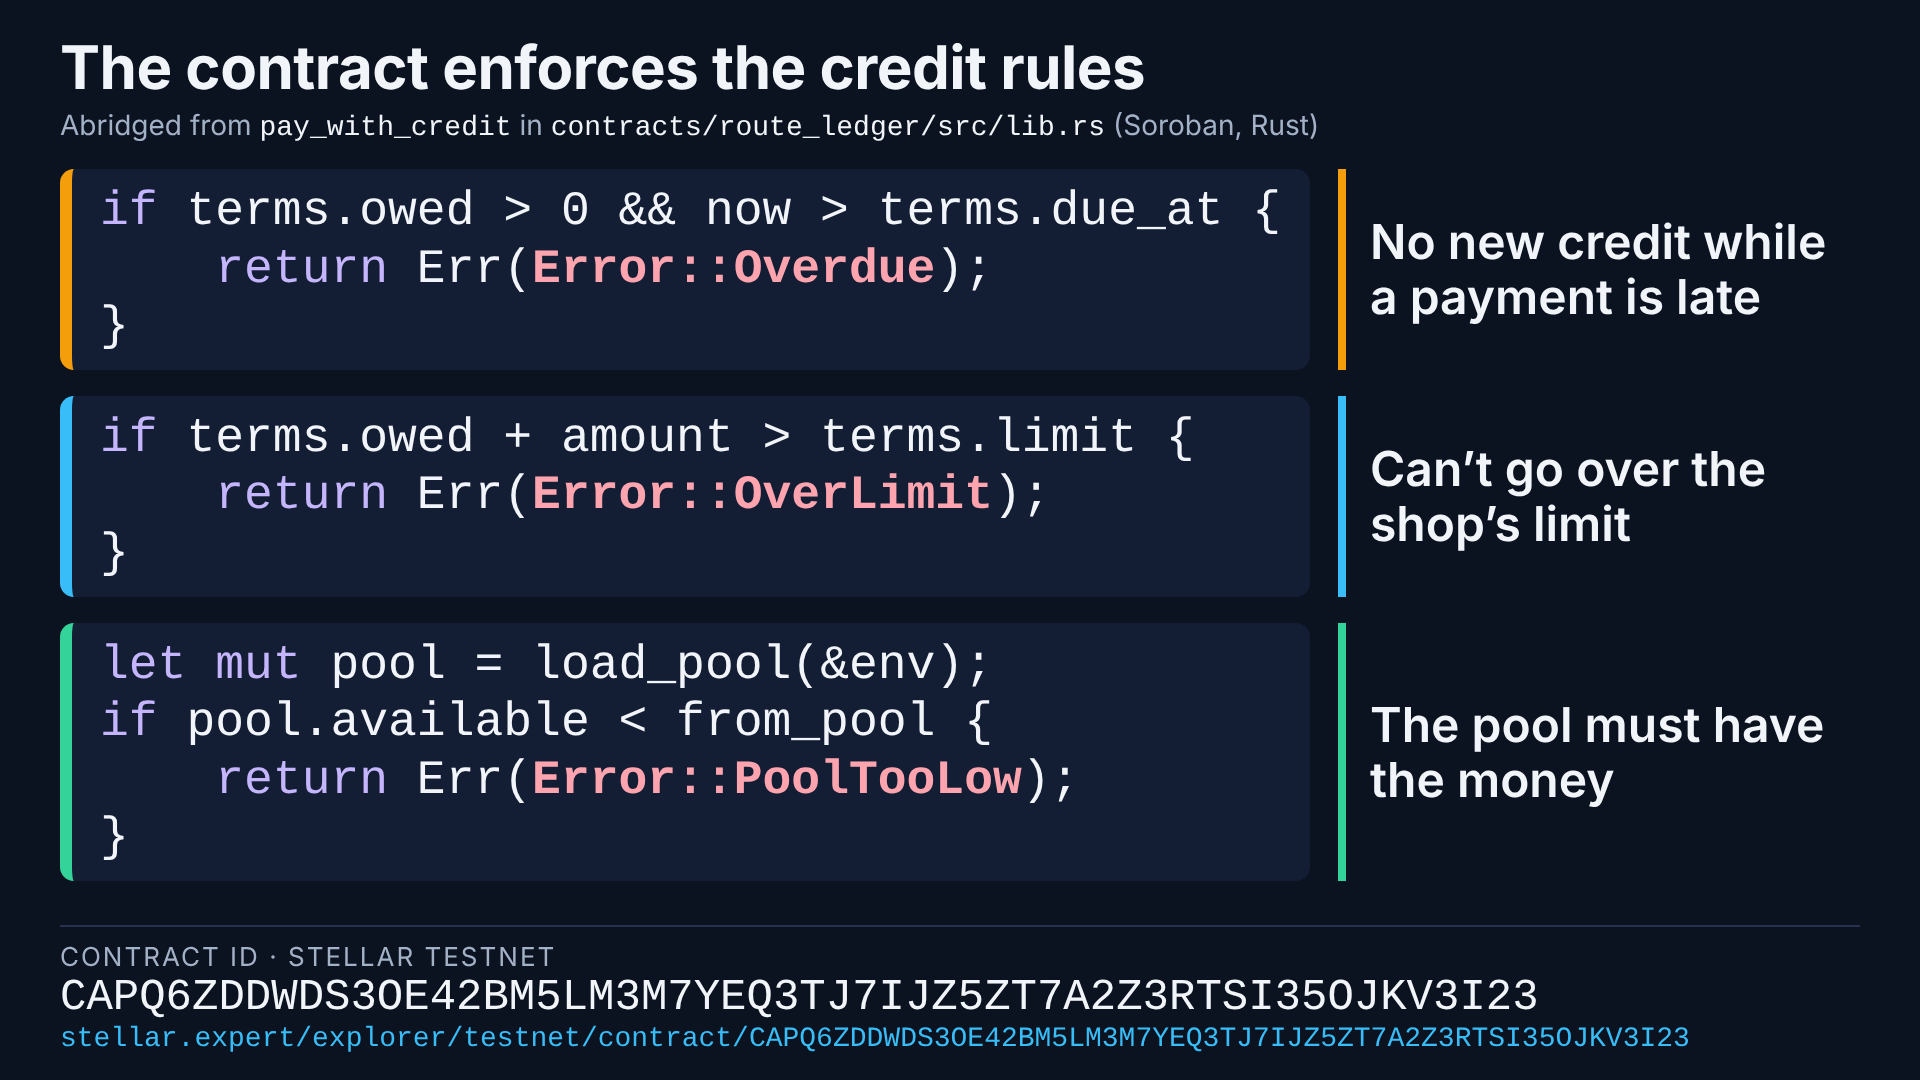
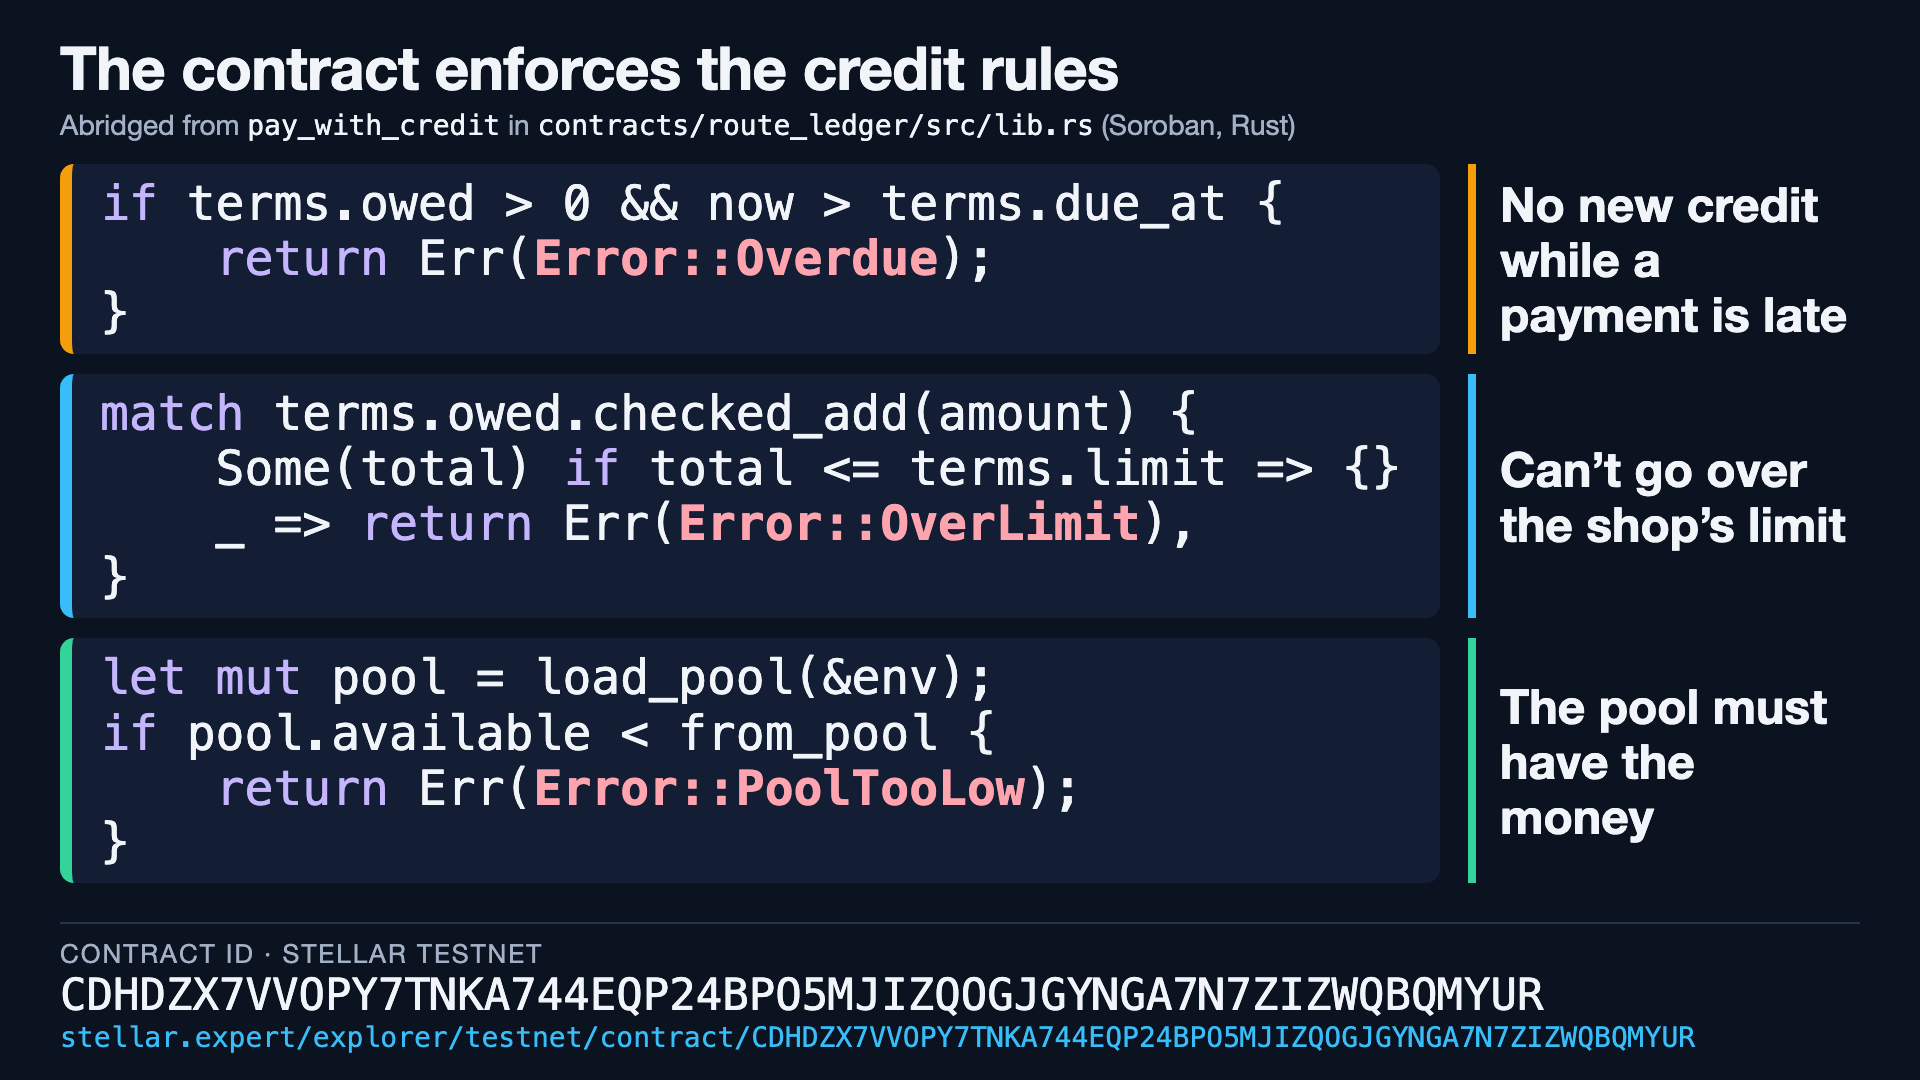
Fix the code slide render after #66 (#82)
* Fix the code slide render: follow pay_with_credit after #66 (#56)

#66 turned the limit check into a checked_add match, so render.mjs
stopped with "line no longer in pay_with_credit" and docs/img/code-slide.png
stayed at the old PENDING render. Point the slide at the new block, give
the code column room for it (still 48 px / 24 pt), and make render.mjs
refuse lines that are too wide or too many instead of drawing overlaps.

The PNG is not part of this commit: it needs the final contract ID from
the redeploy (#52).

* Add a SCALE option to render.mjs for print-size slide images (#56)

SCALE=3 node docs/slides/render.mjs draws both slides at 3x (5760 x 3240)
into code-slide@3x.png and architecture@3x.png, so the trifold can print
them sharp (the 1x files are 80 pixels per inch at 24 in wide). SCALE is a
whole number from 1 to 4 and defaults to 1; the 1x output is unchanged.
Git ignores the @Nx files.

* Re-render the code slide with the redeployed contract ID (#56)

The redeploy (#90) put CDHDZX7V... in config/testnet.json. render.mjs found
its three pay_with_credit blocks in lib.rs after #80 and drew the ID and the
stellar.expert link in place of PENDING. architecture.png is unchanged.
Yahya still has to confirm the code on the slide is what is deployed.

---------

diff --git a/docs/slides/code-slide.html b/docs/slides/code-slide.html
@@ -26,8 +26,9 @@
   .sub { margin-top: 8px; font-size: 28px; color: var(--muted); }
   .sub code { font-family: Menlo, Monaco, "Courier New", monospace; color: var(--ink); }
 
-  .rows { margin-top: 26px; display: grid; grid-template-columns: 1250px 1fr; column-gap: 28px; row-gap: 26px; align-items: stretch; }
-  pre { font-family: Menlo, Monaco, "Courier New", monospace; font-size: 48px; line-height: 1.2; padding: 14px 28px;
+  /* The code column fits 45 characters at 48 px (render.mjs refuses wider lines), and 11 lines above the footer. */
+  .rows { margin-top: 22px; display: grid; grid-template-columns: 1380px 1fr; column-gap: 28px; row-gap: 20px; align-items: stretch; }
+  pre { font-family: Menlo, Monaco, "Courier New", monospace; font-size: 48px; line-height: 1.15; padding: 12px 28px;
     background: var(--card); border-radius: 14px; border-left: 12px solid var(--accent); white-space: pre; }
   .callout { display: flex; align-items: center; border-left: 8px solid var(--accent); padding: 6px 0 6px 24px; font-size: 48px; line-height: 1.15; font-weight: 600; }
   .r1 { --accent: var(--c1); } .r2 { --accent: var(--c2); } .r3 { --accent: var(--c3); }
